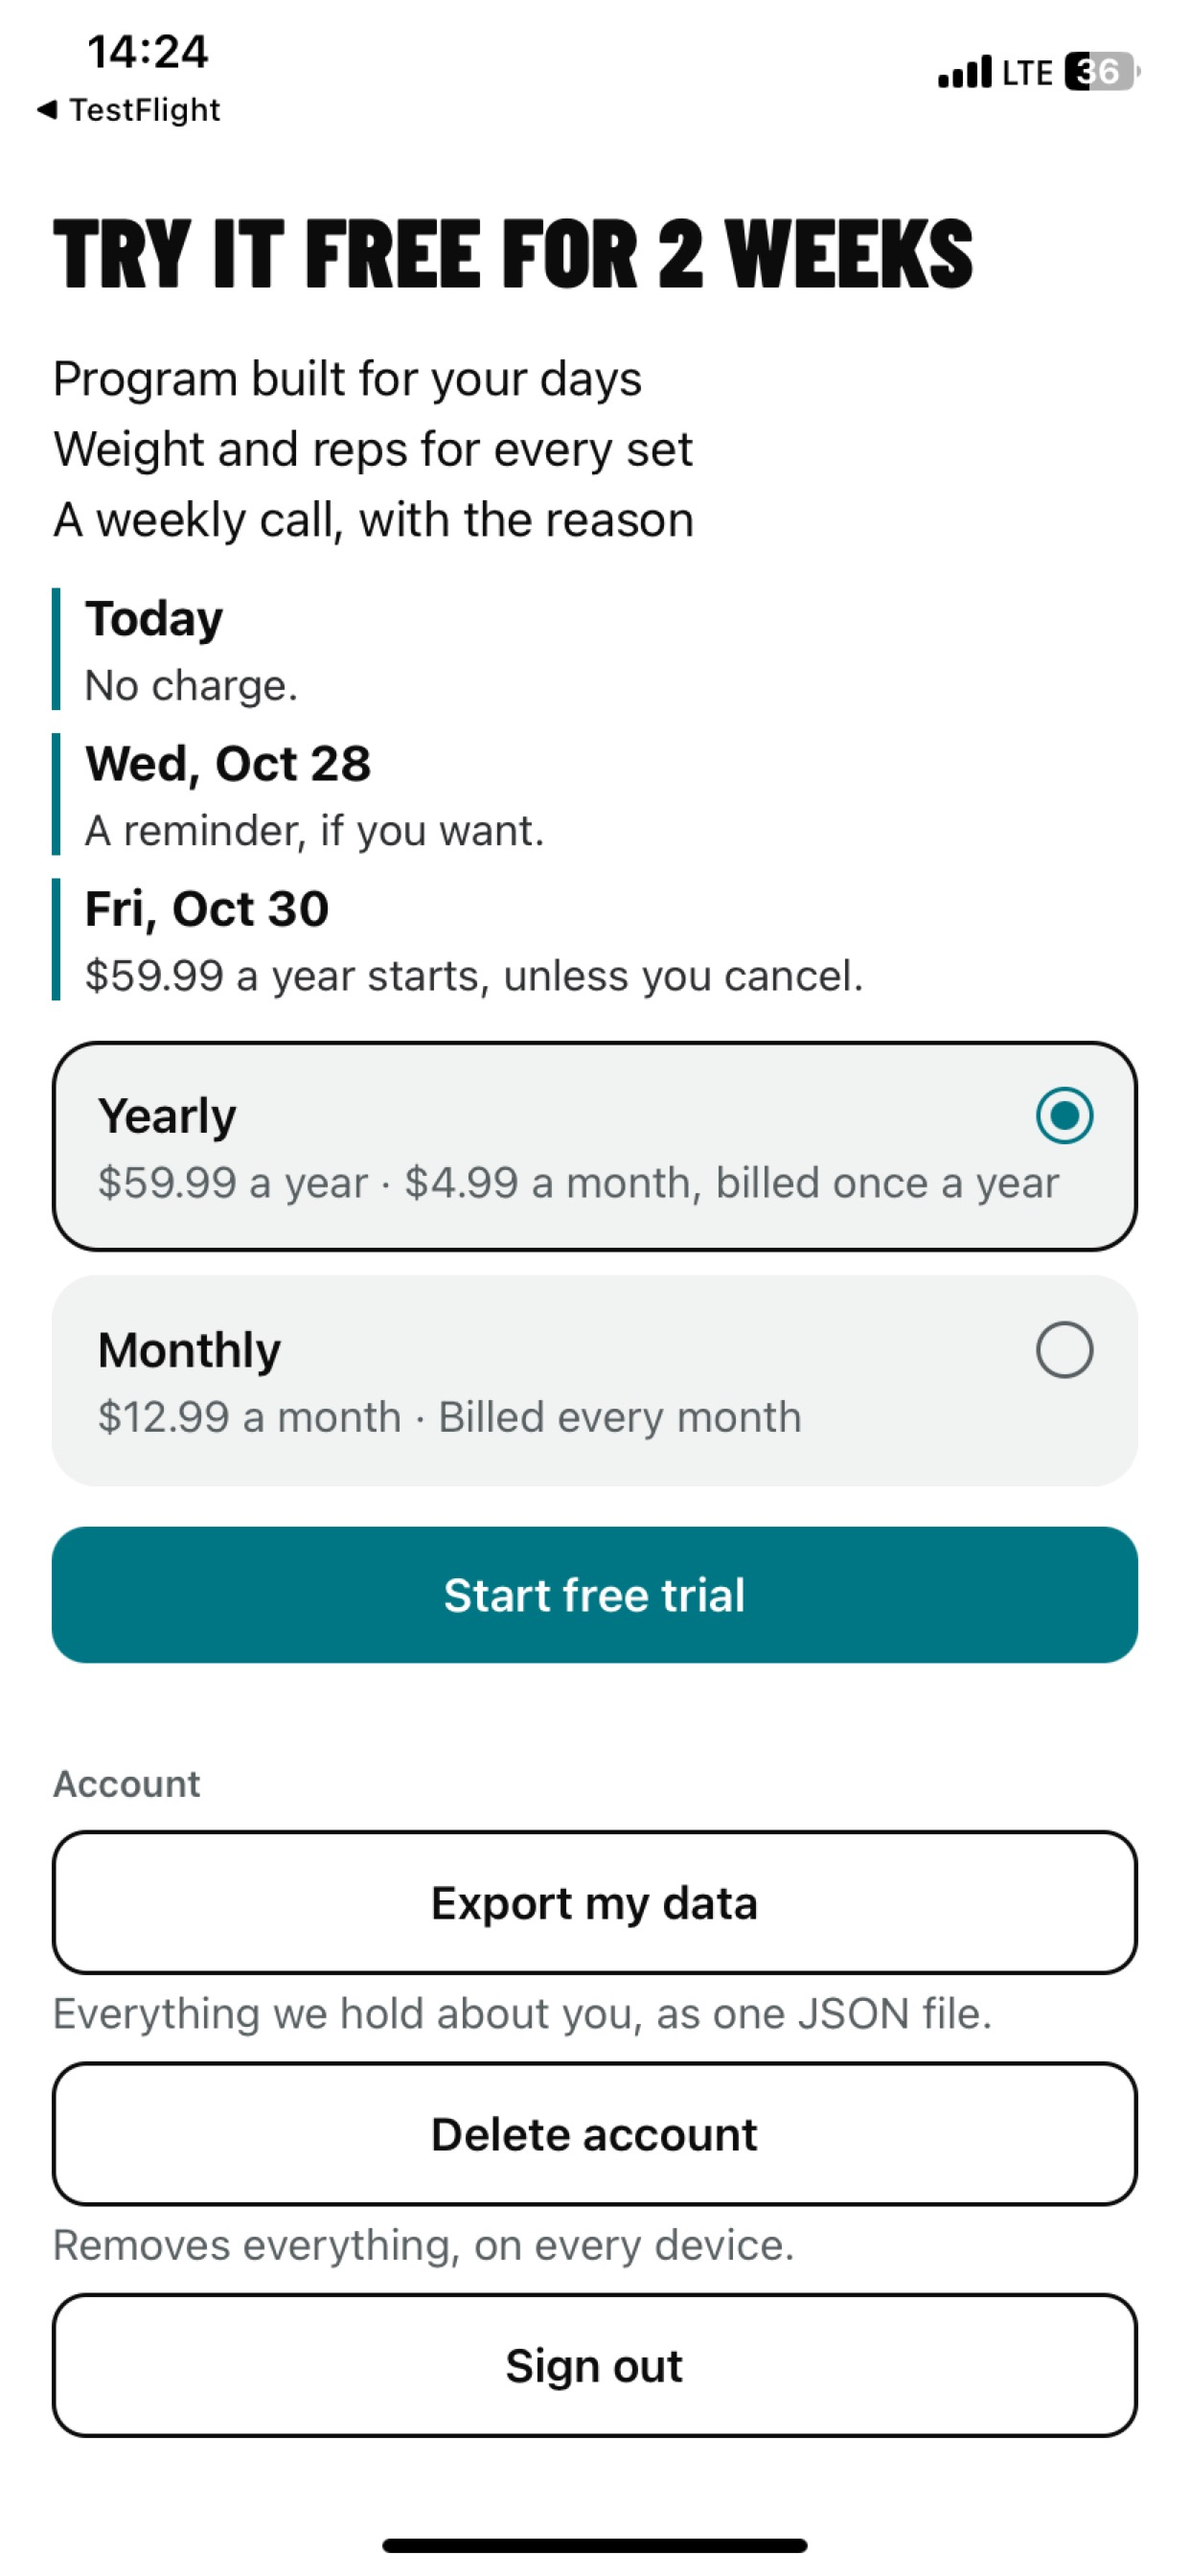
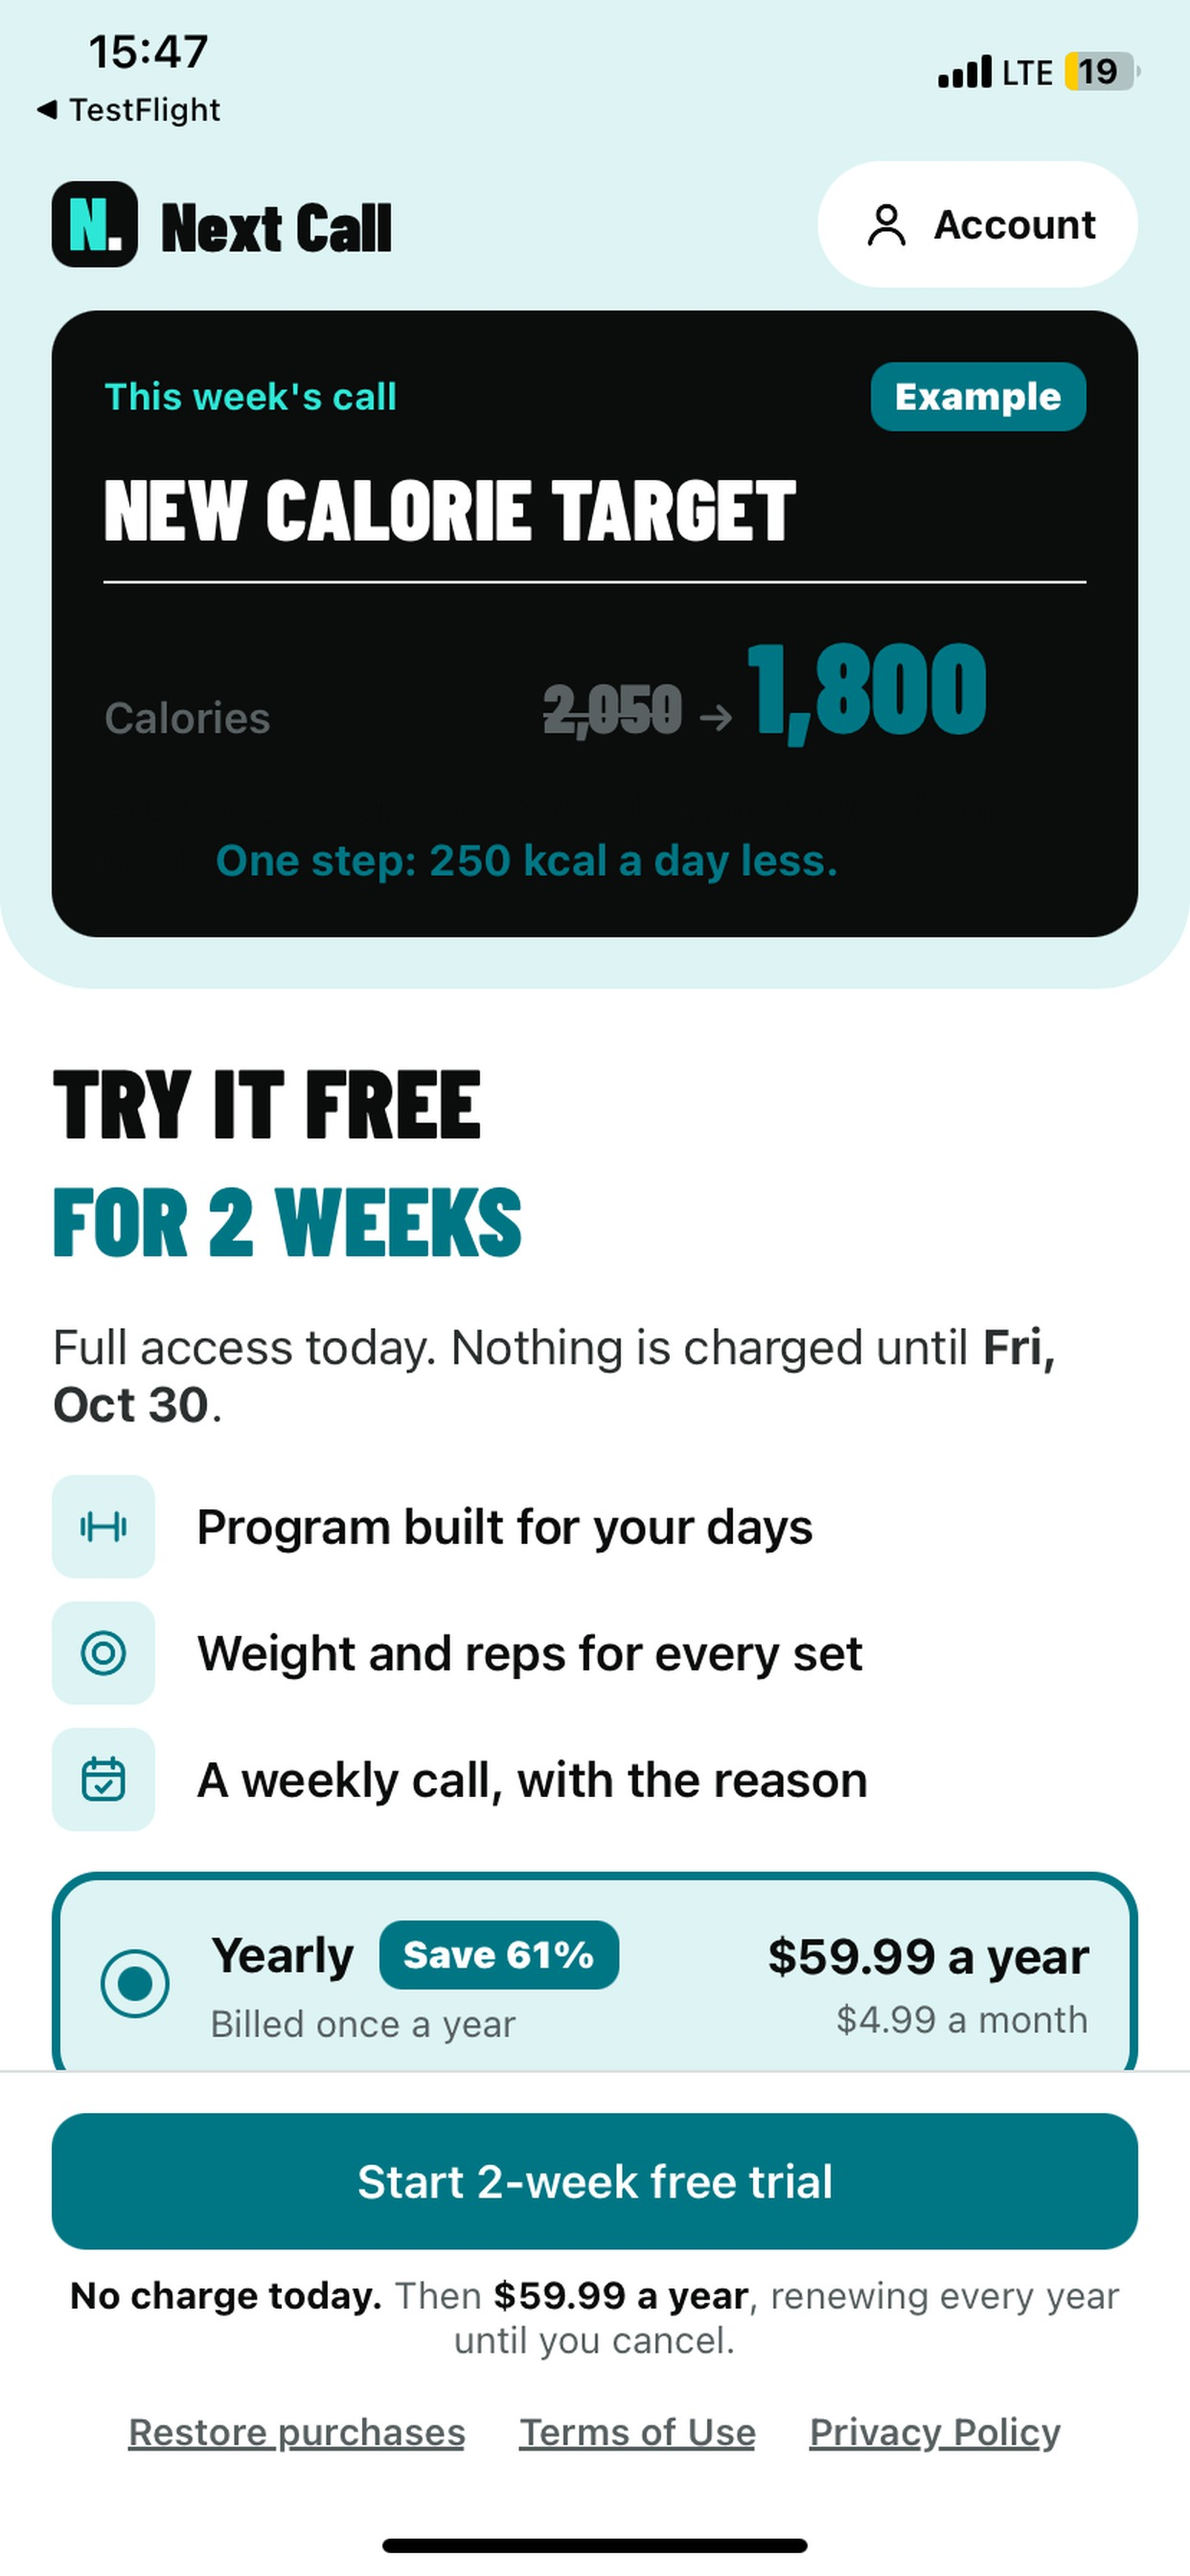
docs(plan): submit-ready state, paywall v2 review screenshot, K-1034 device fixes

diff --git a/DURUM.md b/DURUM.md
@@ -5,11 +5,11 @@ guncelleme: 2026-10-10
 
 > Oturum başında ilk okunan dosya (skill `oturum-baslat`). Oturum sonunda güncellenir (skill `oturum-kapat`).
 
-## ▶ DEVAM NOKTASI (16 Eki akşamüstü — build 4 sürümde, Submit Levent'te)
+## ▶ DEVAM NOKTASI (16 Eki akşamüstü — HER ŞEY HAZIR, yalnız Submit Levent'te)
 **Bitti bu oturumda:** ikon 6 · "N." (#609) ve paywall v2 (#610: örnek karar kartı, "Save %" mağaza fiyatından AŞAĞI yuvarlanır (61), faturalanan tutar kalın, Account sayfası sağ üstte) main'de.
 ASC: 6 kare 1320×2868 olarak **6.9" yuvasına** yüklendi (önceki 1206×2622'ler 6.3"e düşmüştü, zorunlu 6.5" boştu → Submit reddedilirdi; 6.5" artık "Using 6.9""). App Review notu: hesap silme
 "subscription screen › Account (top right) › Delete account". Abonelikler "Prepare for Submission", eksik yok; **ilk abonelik grubu sürümle aynı gönderimde** gider (grup sayfası › Add for Review).
-**Build 4** TestFlight'ta ve sürüme BAĞLI (yeni ikon görünüyor). **Kalan:** Levent telefonda 5 dk + paywall ekran görüntüsü → abonelik inceleme görselini (iki üründe) 1242×2688 ile değiştir →
+**Build 4** TestFlight'ta ve sürüme BAĞLI (yeni ikon görünüyor). Levent telefonda baktı; abonelik inceleme görseli iki üründe yeni paywall (build 4 ekranı, 1242×2688). Görsel kusurlar K-1034 (M11). **Kalan:**
 **Levent: abonelik grubu › Add for Review, sürüm › Add for Review, Submit.** Disk: takas dosyaları ~11 GB (tam jest yerelde koşturulmaz); Codex önbelleği silindi.
 
 ## (önceki) DEVAM NOKTASI (16 Eki öğleden sonra — mağazaya gönderim eşiğinde)
